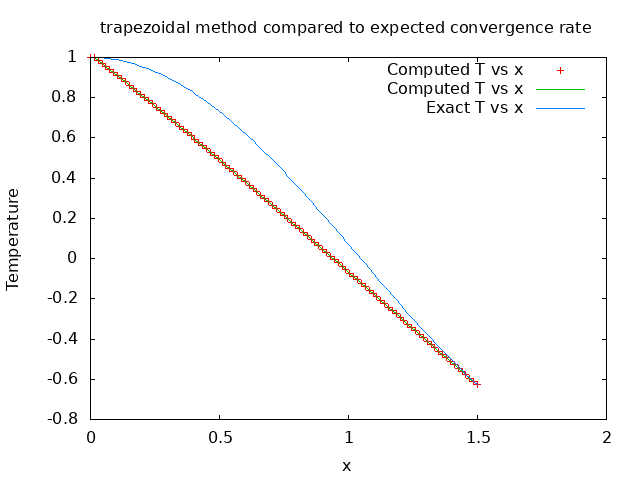
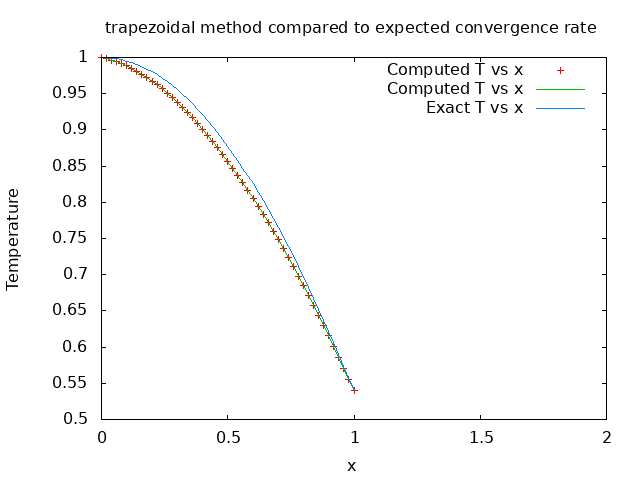
jacobi and gauss were not working due to memcpy. Never obfuscate code

diff --git a/proj01/src/solvers.cpp b/proj01/src/solvers.cpp
@@ -20,13 +20,15 @@ double *jacobi(int n, double** A, double *q, double TOL, unsigned int MAX_ITERS)
 
 	unsigned int iters = 0;
 	double error = 0.0;
-    double* T = new double[n]; 
+        double* T = new double[n]{0.}; 
 	double T_old[n];
 	double delta_T[n];
 
 	while (iters <  MAX_ITERS){
 
-		memcpy(T_old, T, sizeof(T_old));
+		for (int i = 0; i < n; i++){
+			T_old[i] = T[i];
+		}
 
 		for (int i = 0; i < n; i++){
 			T[i] = q[i];
@@ -55,13 +57,15 @@ double *gauss(int n, double** A, double *q, double TOL, unsigned int MAX_ITERS){
 
 	unsigned int iters = 0;
 	double error = 0.0;
-    double* T = new double[n]; 
+	double* T = new double[n]{0.}; 
 	double T_old[n];
 	double delta_T[n];
 
 	while (iters <  MAX_ITERS){
 
-		memcpy(T_old, T, sizeof(T_old));
+                for (int i = 0; i < n; i++){
+                        T_old[i] = T[i];
+                }
 
 		for (int i = 0; i < n; i++){
 			T[i] = q[i];

diff --git a/proj01/src/main.cpp b/proj01/src/main.cpp
@@ -60,7 +60,7 @@ int main(int argc, char *argv[]) {
 	else cout << "dimensions can only be 1 or 2." << endl;
 	
 	T_computed = solve(solver, q_dimensions, A, q, TOL, MAX_ITERS);
-	T_exact = assemble_T_exact(n, order, dimension, L, k_0);
+	T_exact = assemble_T_exact(q_dimensions, order, dimension, L, k_0);
 	delta_T = new double[q_dimensions];
 
 /*	cout << endl;
@@ -90,6 +90,12 @@ int main(int argc, char *argv[]) {
 		}
 		cout << ";" << endl;
 	}
+
+        cout << endl << "[";
+        for(int i = 0; i < q_dimensions; i++){
+                cout << q[i] << endl;
+        } 
+	cout << "]";
 */	
   return 0;
 }	
